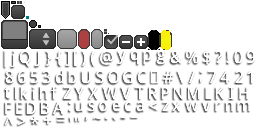
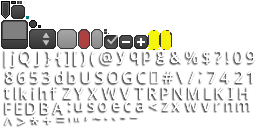
body button style changed to yellow, back button changed to body style

Changed region(s): [[0.5625, 0.2188, 0.625, 0.4062]]

diff --git a/ScienceEngine/src/com/mazalearn/scienceengine/app/screens/AbstractScreen.java b/ScienceEngine/src/com/mazalearn/scienceengine/app/screens/AbstractScreen.java
@@ -66,7 +66,7 @@ public abstract class AbstractScreen implements Screen {
 
   protected Actor createBackButton() {
     final TextButton backButton = 
-        new TextButton(ScienceEngine.getMsg().getString("ControlPanel.Back"), getSkin()); //$NON-NLS-1$
+        new TextButton(ScienceEngine.getMsg().getString("ControlPanel.Back"), getSkin(), "body"); //$NON-NLS-1$
     backButton.setName("BackButton");
     backButton.setPosition(5, VIEWPORT_HEIGHT - 30);
     backButton.setWidth(80);
